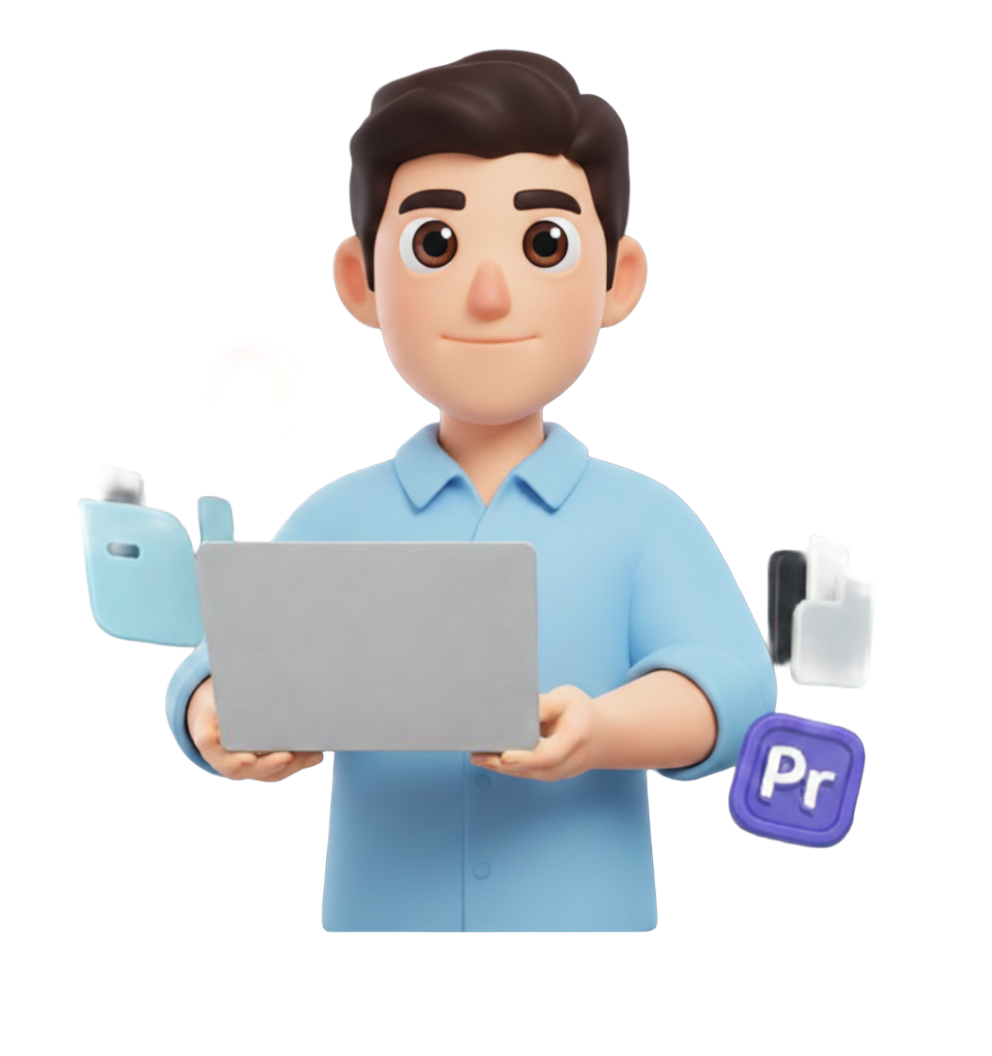
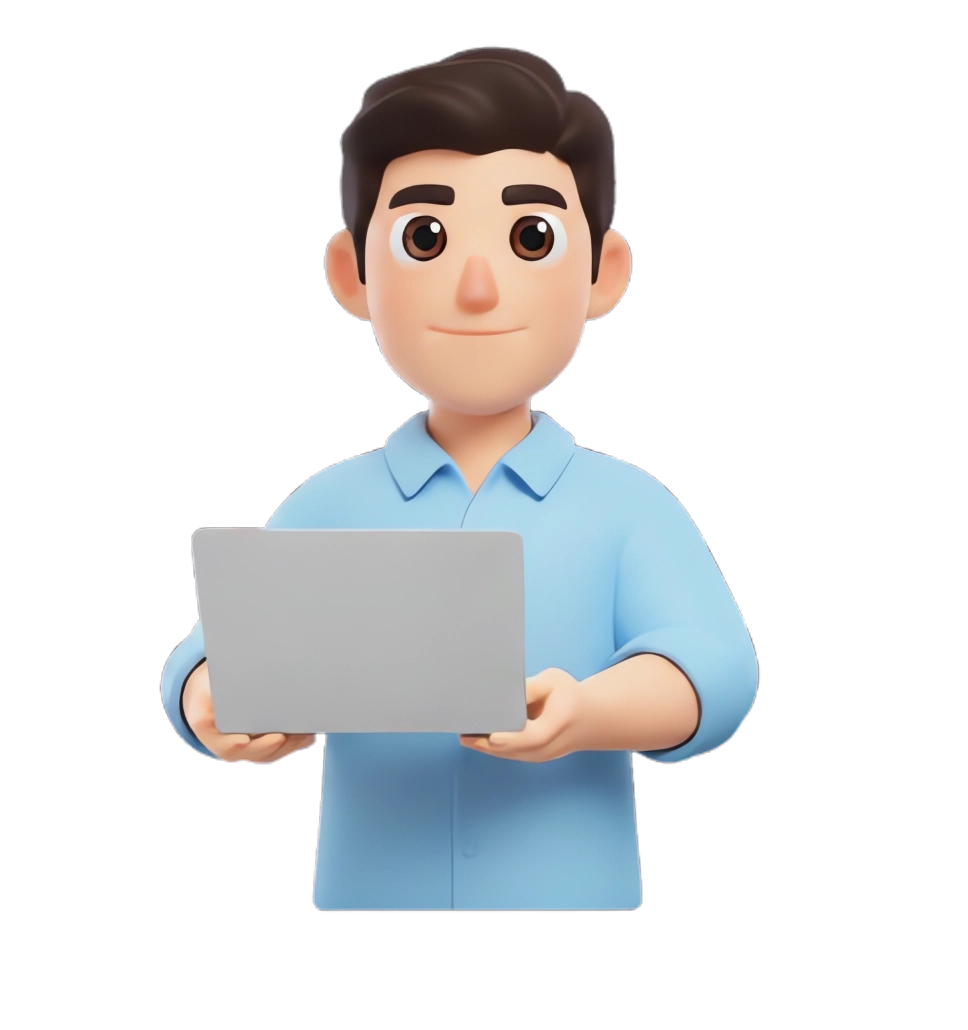
new data updates

diff --git a/src/components/Projects.jsx b/src/components/Projects.jsx
@@ -1,76 +1,86 @@
-import { FaExternalLinkAlt, FaGithub } from 'react-icons/fa'
-import project1 from '../assets/project1.png'
-import project2 from '../assets/project2.png'
-import project3 from '../assets/project3.png'
-import project4 from '../assets/project4.png'
-import project5 from '../assets/project5.png'
-import project6 from '../assets/project6.png'
+import { FaExternalLinkAlt, FaGithub } from "react-icons/fa";
+import project1 from "../assets/project1.png";
+import project2 from "../assets/project2.png";
+import project3 from "../assets/project3.png";
+import project4 from "../assets/project4.png";
+import project5 from "../assets/project5.png";
+import project6 from "../assets/project6.png";
 
 const Projects = ({ darkMode }) => {
   const projects = [
     {
       id: 1,
-      title: 'Mi Cuenta Infonavit',
-      desc: 'Frontend development for a platform serving over 16 million users. Critical bug resolution and performance optimization.',
+      title: "Mi Cuenta Infonavit",
+      desc: "Frontend development for a platform serving over 16 million users. Critical bug resolution and performance optimization.",
       image: project1,
-      tags: ['React', 'TypeScript', 'Node.js', 'REST API'],
+      tags: ["React", "TypeScript", "Node.js", "REST API"],
     },
     {
       id: 2,
-      title: 'JavaScript for Beginners',
-      desc: 'Udemy course creator with over 500 active students, teaching programming fundamentals and logic.',
+      title: "Huellitas",
+      desc: "Este proyecto facilita la adopción de perritos rescatados, conectando a refugios y rescatistas con adoptantes responsables a través de una experiencia de usuario fluida y amorosa.",
       image: project2,
-      tags: ['Education', 'JavaScript', 'Logic'],
+      tags: ["Education", "JavaScript", "Logic"],
+      code: "https://github.com/carlosalberto05/perritos-refugio-frontend",
+      demo: "https://perritos-refugio-frontend.vercel.app/",
     },
     {
       id: 3,
-      title: 'Corporate Websites',
-      desc: 'Development of multiple professional landing pages and corporate sites using WordPress and Elementor.',
+      title: "Corporate Websites",
+      desc: "Development of multiple professional landing pages and corporate sites using WordPress and Elementor.",
       image: project3,
-      tags: ['WordPress', 'Elementor', 'Web Design'],
+      tags: ["WordPress", "Elementor", "Web Design"],
+      code: "https://github.com/carlosalberto05/perritos-refugio-frontend",
+      demo: "https://perritos-refugio-frontend.vercel.app/",
     },
     {
       id: 4,
-      title: 'No-Code Automations',
-      desc: 'Implementation of efficient workflows and integrations using Make (Integromat), Zapier, and APIs.',
+      title: "No-Code Automations",
+      desc: "Implementation of efficient workflows and integrations using Make (Integromat), Zapier, and APIs.",
       image: project4,
-      tags: ['Make', 'Zapier', 'APIs'],
+      tags: ["Make", "Zapier", "APIs"],
+      code: "https://github.com/carlosalberto05/perritos-refugio-frontend",
+      demo: "https://perritos-refugio-frontend.vercel.app/",
     },
     {
       id: 5,
-      title: 'Technology Workshops',
-      desc: 'Tutoring in digital literacy and Linux installation for underserved youth in Huesca, Spain.',
+      title: "Technology Workshops",
+      desc: "Tutoring in digital literacy and Linux installation for underserved youth in Huesca, Spain.",
       image: project5,
-      tags: ['Mentoring', 'Linux', 'Social Impact'],
+      tags: ["Mentoring", "Linux", "Social Impact"],
+      code: "https://github.com/carlosalberto05/perritos-refugio-frontend",
+      demo: "https://perritos-refugio-frontend.vercel.app/",
     },
     {
       id: 6,
-      title: 'Full Stack Content',
-      desc: '7-hour full-stack authentication tutorial that reached 5,000+ developers on YouTube.',
+      title: "Full Stack Content",
+      desc: "7-hour full-stack authentication tutorial that reached 5,000+ developers on YouTube.",
       image: project6,
-      tags: ['Content Creation', 'React', 'Full Stack'],
+      tags: ["Content Creation", "React", "Full Stack"],
+      code: "https://github.com/carlosalberto05/perritos-refugio-frontend",
+      demo: "https://perritos-refugio-frontend.vercel.app/",
     },
-  ]
+  ];
 
   return (
     <section
       id="projects"
-      style={{ backgroundColor: darkMode ? '#111827' : '#f9fafb' }}
+      style={{ backgroundColor: darkMode ? "#111827" : "#f9fafb" }}
       className="relative py-24"
     >
       <div className="container mx-auto px-4">
         <div className="text-center mb-10" data-aos="fade-up">
           <h2
             className="text-3xl sm:text-4xl font-bold mb-3"
-            style={{ color: darkMode ? 'white' : '#1f2937' }}
+            style={{ color: darkMode ? "white" : "#1f2937" }}
           >
-            My{' '}
+            My{" "}
             <span
               style={{
-                background: 'linear-gradient(to right, #f97316, #f59e0b)',
-                WebkitBackgroundClip: 'text',
-                backgroundClip: 'text',
-                color: 'transparent',
+                background: "linear-gradient(to right, #f97316, #f59e0b)",
+                WebkitBackgroundClip: "text",
+                backgroundClip: "text",
+                color: "transparent",
               }}
             >
               Projects
@@ -79,7 +89,7 @@ const Projects = ({ darkMode }) => {
 
           <p
             className="max-w-xl mx-auto"
-            style={{ color: darkMode ? '#d1d5db' : '#6b7280' }}
+            style={{ color: darkMode ? "#d1d5db" : "#6b7280" }}
           >
             A showcase of my recent work and high-impact contributions.
           </p>
@@ -91,9 +101,9 @@ const Projects = ({ darkMode }) => {
               key={project.id}
               style={{
                 background: darkMode
-                  ? 'linear-gradient(to right, #1f2937, #111827)'
-                  : 'linear-gradient(to right, #ffffff, #f9fafb)',
-                borderColor: darkMode ? '#374151' : 'e5e7eb',
+                  ? "linear-gradient(to right, #1f2937, #111827)"
+                  : "linear-gradient(to right, #ffffff, #f9fafb)",
+                borderColor: darkMode ? "#374151" : "e5e7eb",
               }}
               className="group rounded-xl border hover:border-orange-500/50 transition-all duration-300"
               data-aos="fade-up"
@@ -110,14 +120,14 @@ const Projects = ({ darkMode }) => {
               <div className="p-4">
                 <h3
                   className="text-lg font-bold mb-2"
-                  style={{ color: darkMode ? 'white' : '#1f2937' }}
+                  style={{ color: darkMode ? "white" : "#1f2937" }}
                 >
                   {project.title}
                 </h3>
 
                 <p
                   className="text-sm mb-3"
-                  style={{ color: darkMode ? '#d1d5db' : '#6b7280' }}
+                  style={{ color: darkMode ? "#d1d5db" : "#6b7280" }}
                 >
                   {project.desc}
                 </p>
@@ -127,8 +137,8 @@ const Projects = ({ darkMode }) => {
                     <span
                       key={idx}
                       style={{
-                        backgroundColor: darkMode ? '#374151' : '#f3f4f6',
-                        color: darkMode ? '#d1d5db' : '#4b5563',
+                        backgroundColor: darkMode ? "#374151" : "#f3f4f6",
+                        color: darkMode ? "#d1d5db" : "#4b5563",
                       }}
                       className="px-2 py-1 text-xs rounded-full"
                     >
@@ -139,10 +149,12 @@ const Projects = ({ darkMode }) => {
 
                 <div className="flex gap-2">
                   <a
-                    href="#"
+                    href={project.code}
+                    target="_blank"
+                    rel="noopener noreferrer"
                     style={{
-                      backgroundColor: darkMode ? '#374151' : '#f3f4f6',
-                      color: darkMode ? 'white' : '#374151',
+                      backgroundColor: darkMode ? "#374151" : "#f3f4f6",
+                      color: darkMode ? "white" : "#374151",
                     }}
                     className="flex-1 flex items-center justify-center gap-1.5 px-3 py-2 text-sm rounded-lg hover:opacity-90 transition-colors"
                     data-aos="zoom-in"
@@ -153,10 +165,11 @@ const Projects = ({ darkMode }) => {
                   </a>
 
                   <a
-                    href="#"
+                    href={project.demo}
+                    target="_blank"
+                    rel="noopener noreferrer"
                     style={{
-                      background:
-                        'linear-gradient(to right, #f97316, #f59e0b)',
+                      background: "linear-gradient(to right, #f97316, #f59e0b)",
                     }}
                     className="flex-1 flex items-center justify-center gap-1.5 px-3 py-2 text-white text-sm rounded-lg hover:shadow-lg hover:shadow-orange-500/25 transition-all"
                     data-aos="zoom-in"
@@ -175,7 +188,7 @@ const Projects = ({ darkMode }) => {
           <a
             href="#"
             style={{
-              background: 'linear-gradient(to right, #f97316, #f59e0b)',
+              background: "linear-gradient(to right, #f97316, #f59e0b)",
             }}
             className="inline-flex items-center gap-2 px-7 py-4 text-white text-sm font-semibold rounded-full hover:shadow-lg hover:shadow-orange-500/25 transition-all"
             data-aos="zoom-in"
@@ -188,7 +201,7 @@ const Projects = ({ darkMode }) => {
         </div>
       </div>
     </section>
-  )
-}
+  );
+};
 
-export default Projects
+export default Projects;

diff --git a/src/components/About.jsx b/src/components/About.jsx
@@ -1,4 +1,4 @@
-import about from '../assets/about.png'
+import about from "../assets/about2.png";
 
 const About = ({ darkMode }) => {
   return (
@@ -46,51 +46,64 @@ const About = ({ darkMode }) => {
 
           <p
             className={`text-sm sm:text-base lg:text-lg xl:text-xl mb-6 sm:mb-8 leading-relaxed bg-linear-to-r from-orange-900/10 to-orange-900/5 p-4 sm:p-6 rounded-xl sm:rounded-2xl backdrop-blur-sm ${
-              darkMode ? 'text-gray-300' : 'text-gray-700'
+              darkMode ? "text-gray-300" : "text-gray-700"
             }`}
             data-aos="fade-up"
             data-aos-delay="500"
           >
-            Self-taught and oriented to solving real-world problems. I have a unique background in 
-            Communications and Electronics Engineering (IPN), which gives me a strong foundation in 
-            systems thinking. I have contributed to large-scale platforms like "Mi Cuenta Infonavit", 
-            impacting over 16 million users.
+            Self-taught and oriented to solving real-world problems. I have a
+            unique background in Communications and Electronics Engineering
+            (IPN), which gives me a strong foundation in systems thinking. I
+            have contributed to large-scale platforms like "Mi Cuenta
+            Infonavit", impacting over 16 million users.
           </p>
 
           <div className="flex flex-wrap justify-center lg:justify-start gap-4 sm:gap-6 lg:gap-8 mb-6 sm:mb-8">
-            <div className="text-center" data-aos="zoom-in" data-aos-delay="600">
+            <div
+              className="text-center"
+              data-aos="zoom-in"
+              data-aos-delay="600"
+            >
               <div className="text-2xl sm:text-3xl lg:text-4xl font-bold text-orange-400">
                 IPN
               </div>
               <div
                 className={`text-xs sm:text-sm lg:text-base ${
-                  darkMode ? 'text-gray-300' : 'text-gray-600'
+                  darkMode ? "text-gray-300" : "text-gray-600"
                 }`}
               >
                 Education
               </div>
             </div>
 
-            <div className="text-center" data-aos="zoom-in" data-aos-delay="650">
+            <div
+              className="text-center"
+              data-aos="zoom-in"
+              data-aos-delay="650"
+            >
               <div className="text-2xl sm:text-3xl lg:text-4xl font-bold text-orange-400">
                 3+
               </div>
               <div
                 className={`text-xs sm:text-sm lg:text-base ${
-                  darkMode ? 'text-gray-300' : 'text-gray-600'
+                  darkMode ? "text-gray-300" : "text-gray-600"
                 }`}
               >
                 Years Exp.
               </div>
             </div>
 
-            <div className="text-center" data-aos="zoom-in" data-aos-delay="700">
+            <div
+              className="text-center"
+              data-aos="zoom-in"
+              data-aos-delay="700"
+            >
               <div className="text-2xl sm:text-3xl lg:text-4xl font-bold text-orange-400">
                 5k+
               </div>
               <div
                 className={`text-xs sm:text-sm lg:text-base ${
-                  darkMode ? 'text-gray-300' : 'text-gray-600'
+                  darkMode ? "text-gray-300" : "text-gray-600"
                 }`}
               >
                 Students
@@ -101,8 +114,8 @@ const About = ({ darkMode }) => {
           <button
             className={`w-full sm:w-auto border-2 border-orange-500 inline-flex items-center justify-center py-2 px-4 sm:px-6 hover:shadow-[0_0_40px_rgb(255,165,0,0.7)] rounded-full text-base sm:text-lg font-semibold transition-all duration-300 transform ${
               darkMode
-                ? 'text-white bg-orange-500/10'
-                : 'text-gray-800 bg-white/90'
+                ? "text-white bg-orange-500/10"
+                : "text-gray-800 bg-white/90"
             }`}
             data-aos="fade-up"
             data-aos-delay="800"
@@ -112,7 +125,7 @@ const About = ({ darkMode }) => {
         </article>
       </div>
     </section>
-  )
-}
+  );
+};
 
-export default About
+export default About;

diff --git a/src/components/Hero.jsx b/src/components/Hero.jsx
@@ -108,7 +108,11 @@ const Hero = ({ darkMode }) => {
                 data-aos="fade-up"
                 data-aos-delay="700"
               >
-                <a href={CV} download className="w-full sm:w-auto">
+                <a
+                  href={CV}
+                  download="Carlos_Alberto_Lira_Software Engineer_Frontend_Developer_CV.pdf"
+                  className="w-full sm:w-auto"
+                >
                   <button className="w-full sm:w-auto inline-flex items-center justify-center text-white bg-linear-to-r from-orange-500 to-amber-500 border-0 py-3 px-6 sm:px-8 hover:shadow-[0_0_40px_rgb(255,165,0,0.7)] rounded-full text-base sm:text-lg font-semibold transition-all duration-300 transform">
                     <DownloadIcon className="w-4 h-4 sm:h-5 sm:w-5 mr-2" />
                     Download CV

diff --git a/index.html b/index.html
@@ -4,7 +4,7 @@
     <meta charset="UTF-8" />
     <link rel="icon" type="image/svg+xml" href="/vite.svg" />
     <meta name="viewport" content="width=device-width, initial-scale=1.0" />
-    <title>portfolio_website</title>
+    <title>Carlos Alberto Lira - Portfolio</title>
   </head>
   <body>
     <div id="root"></div>
